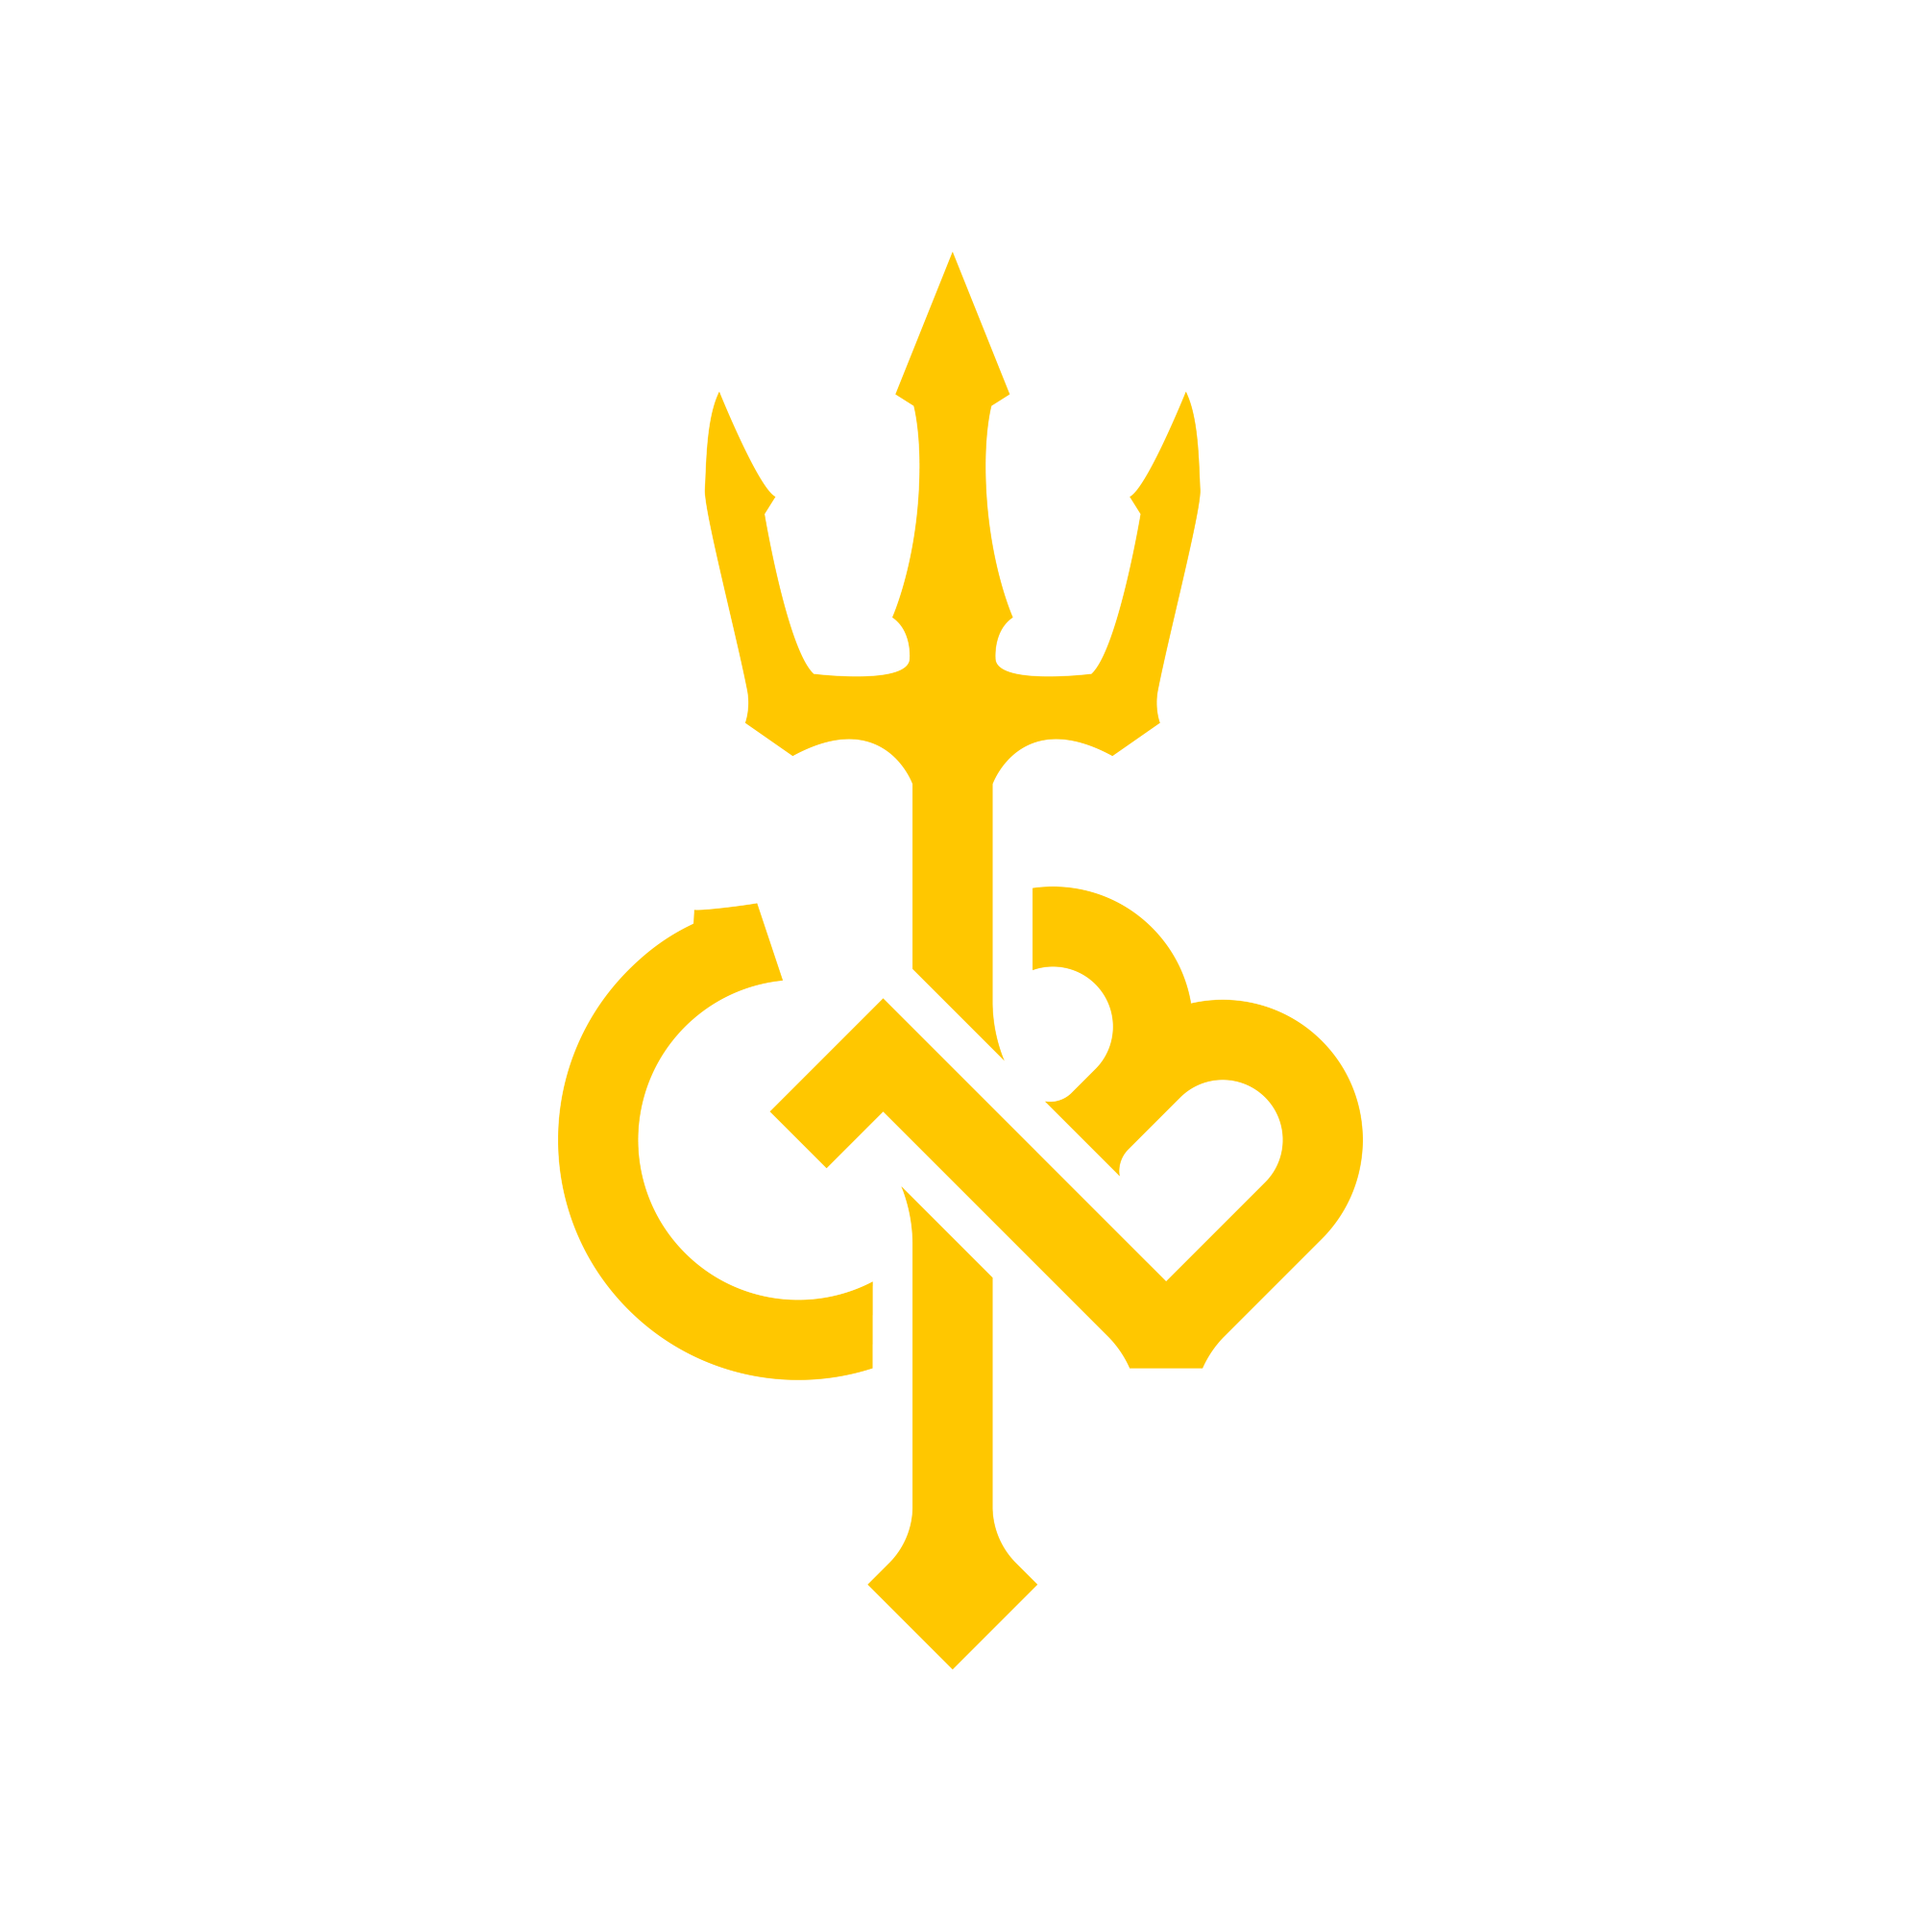
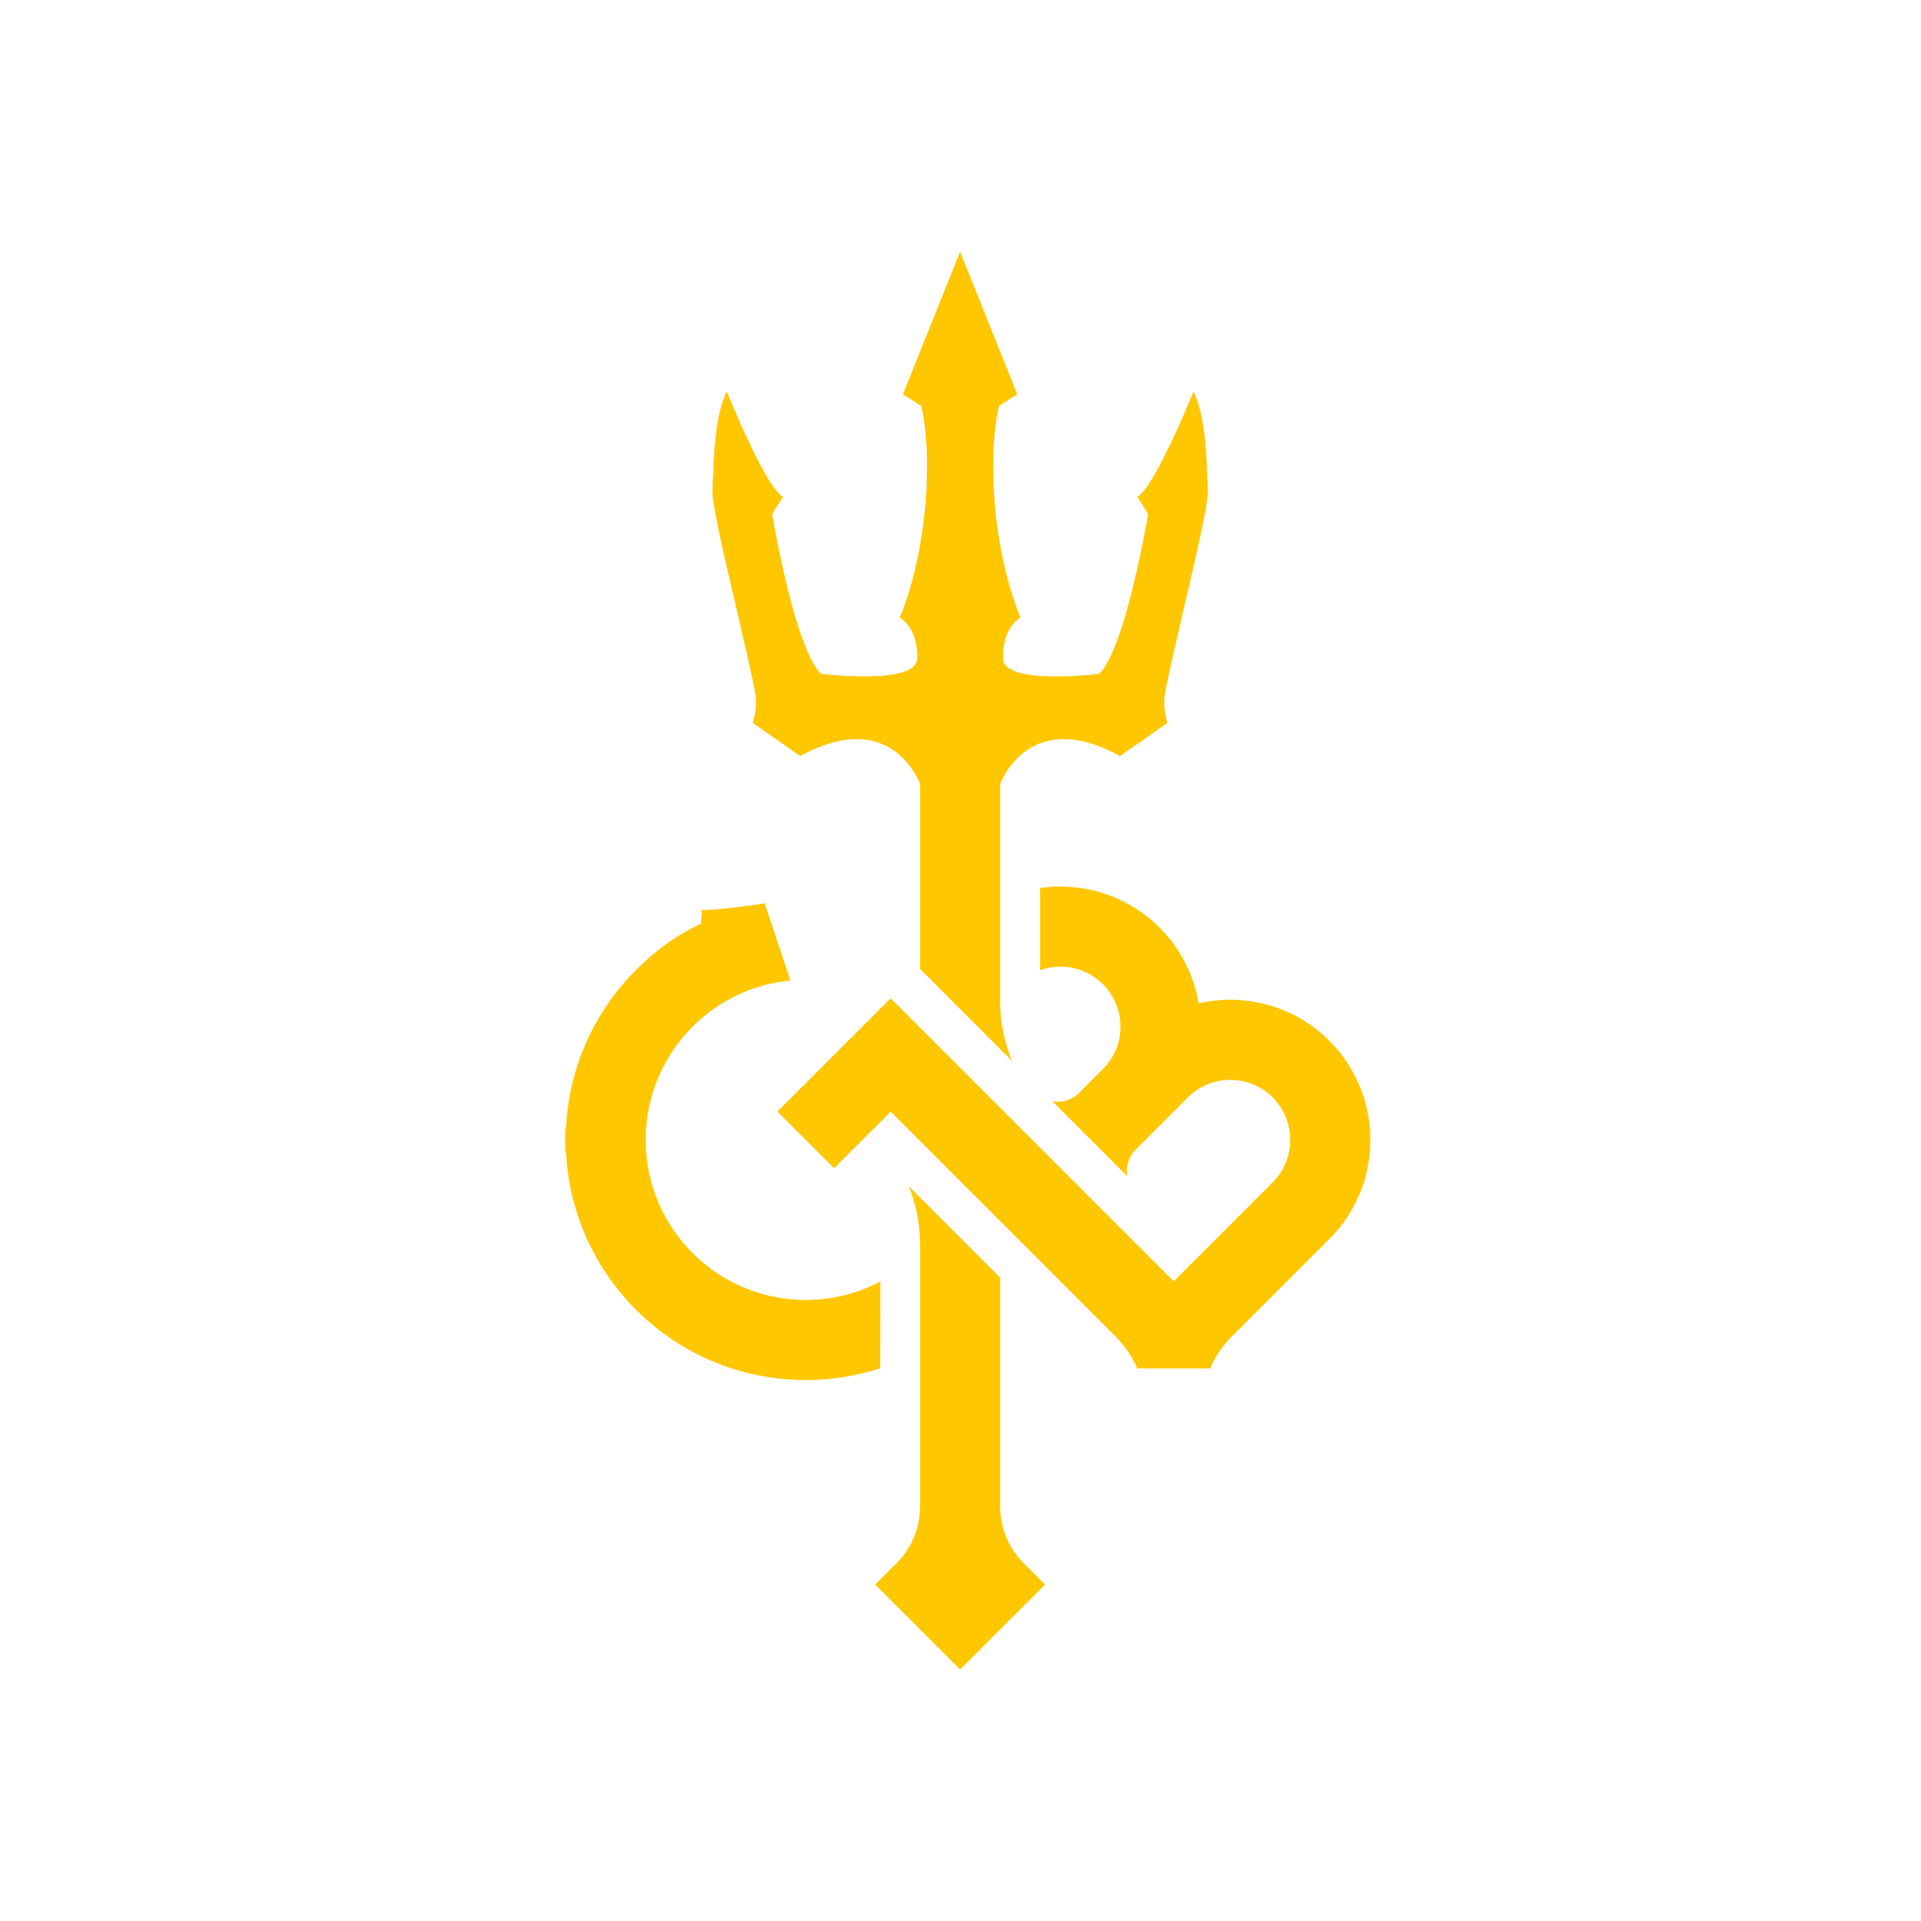
UX UI fixes
fixes include
*full display showcased image
*fixed scrolling right issue casued by something in the footer

diff --git a/css/style.css b/css/style.css
@@ -95,10 +95,11 @@ a{
 .showcase-cont{
   position: relative;
   width: 100%;
-  height: 800px;
+  height: 100vh;
   margin: 0 auto;
   box-sizing: border-box;
   background-color: #51788B;
+  overflow-y: hidden;
 }
 .showcase-box{
   position: relative;
@@ -113,7 +114,7 @@ a{
   left: 0px;
   height: 100vw;
   max-height: 800px;
-  top: calc(-1 * ( 50vw - 400px ));
+  top: calc(-1 * ( 50vw - 50vh ));
   margin: 0 auto;
   display: block;
 }
@@ -121,7 +122,7 @@ a{
 @media (min-width: 801px) {
   .showcase-box > img:first-child{
     left: calc(50vw - 400px);
-    top: 0px;
+    top: calc(50vh - 400px);
   }
 }
 
@@ -142,6 +143,7 @@ a{
   margin: 0 auto;
   box-sizing: border-box;
   background-color: #F2F4F6;
+  overflow-x: hidden;
 }
 
 .footer-bar{

diff --git a/css/normalize.css b/css/normalize.css
@@ -10,6 +10,8 @@ html {
   font-family: sans-serif; /* 1 */
   -ms-text-size-adjust: 100%; /* 2 */
   -webkit-text-size-adjust: 100%; /* 2 */
+  width: 100%;
+  overflow-x: hidden;
 }
 
 /**
